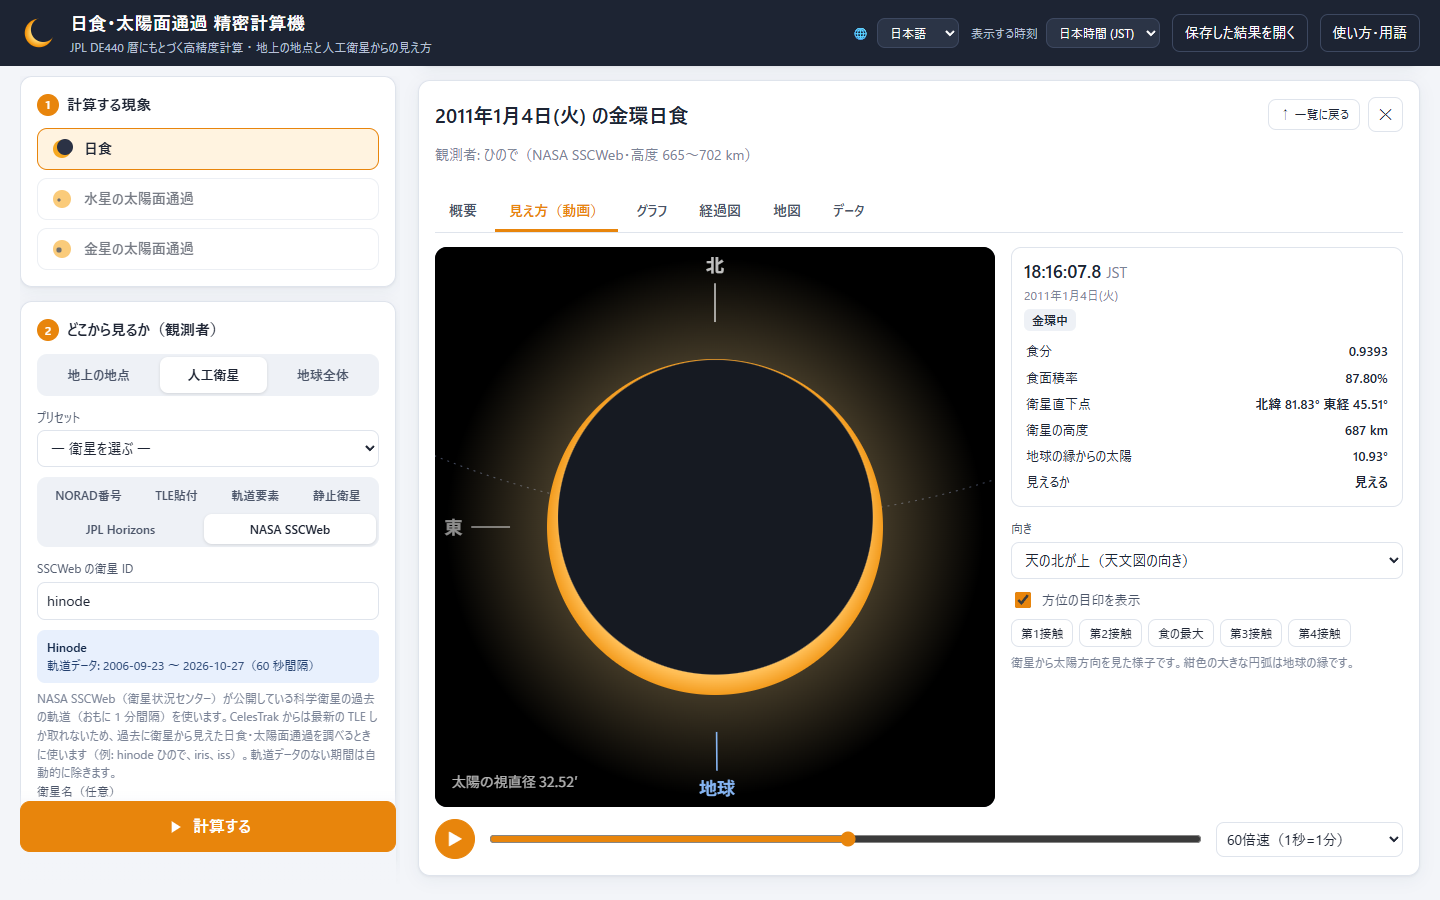
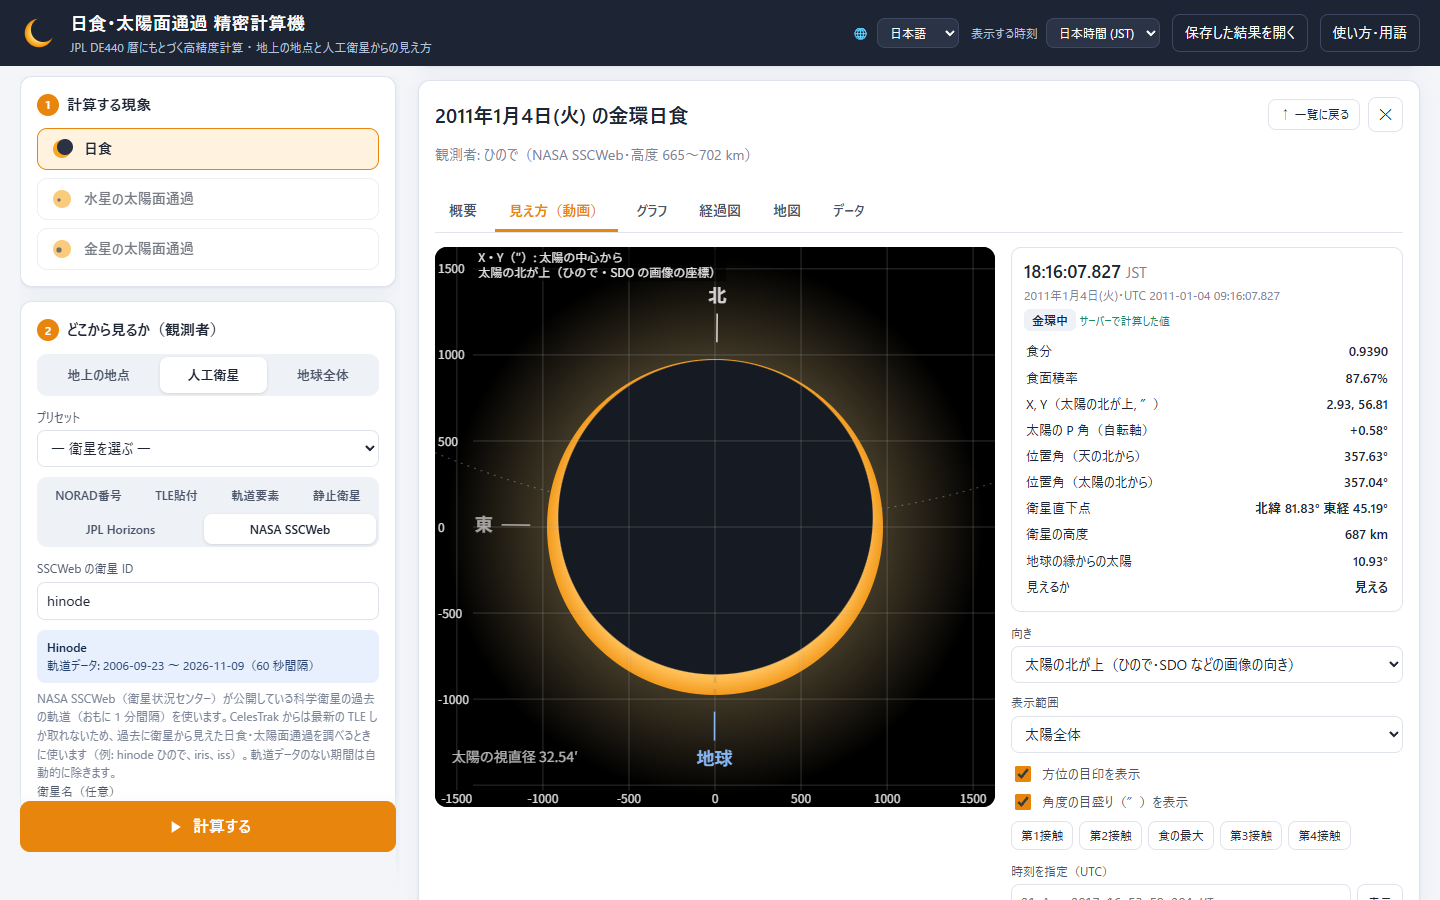
README の画面例を今の画面で撮り直す（日本語版・英語版の 5 枚ずつ。「ひので」の金環日食は太陽の北が上・角度秒の目盛りで表示）。既定の太陽半径の変更に合わせてルクソールの皆既の継続時間の説明を 6 分 18.9 秒に直し、見え方で角度の目盛りを表示するときは方位の目印（北・東・地球）を太陽の近くに描いて目盛りの数値と重ならないようにする

diff --git a/static/app.js b/static/app.js
@@ -2150,7 +2150,9 @@ function drawDisk() {
   if ($('#showGrid').checked) {
     const fs = Math.round(W / (field ? 42 : 32));
     g.font = `bold ${fs}px sans-serif`; g.textAlign = 'center'; g.textBaseline = 'middle';
-    const [ox, oy, r1, r2] = field ? [W - fs * 6.6, fs * 5.8, fs * 0.3, fs * 2] : [cx, cy, rs * 1.22, rs * 1.45];
+    // closer to the Sun when the angle ticks take the edges of the view
+    const [ox, oy, r1, r2] = field ? [W - fs * 6.6, fs * 5.8, fs * 0.3, fs * 2]
+      : axes ? [cx, cy, rs * 1.1, rs * 1.27] : [cx, cy, rs * 1.22, rs * 1.45];
     if (field) {
       g.fillStyle = 'rgba(0,0,0,.5)';
       g.beginPath(); g.arc(ox, oy, fs * 5.1, 0, 2 * Math.PI); g.fill();

diff --git a/README.ja.md b/README.ja.md
@@ -10,7 +10,7 @@
 | | |
 |---|---|
 | ![ルクソールから見た2027年8月2日の皆既日食](docs/images/luxor_view.png) | ![「ひので」が軌道上で見た2011年1月4日の金環日食](docs/images/hinode_view.png) |
-| **地上から見た様子**：ルクソール（エジプト）での 2027 年 8 月 2 日の皆既日食。皆既は 6 分 22.6 秒、欠け方を動画で再生できます | **人工衛星から見た様子**：太陽観測衛星「ひので」が 2011 年 1 月 4 日に軌道上で見た金環日食 |
+| **地上から見た様子**：ルクソール（エジプト）での 2027 年 8 月 2 日の皆既日食。皆既は 6 分 18.9 秒、欠け方を動画で再生できます | **人工衛星から見た様子**：太陽観測衛星「ひので」が 2011 年 1 月 4 日に軌道上で見た金環日食。太陽の北を上にし、ひので・SDO などの画像と同じ角度秒（″）の目盛りで表示 |
 | ![2026〜2035年に世界で起きる日食・太陽面通過の一覧](docs/images/global_list.png) | ![打ち上げ前の衛星について平均近点角ごとの結果をまとめた画面](docs/images/prelaunch_sweep.png) |
 | **一覧**：2026〜2035 年に世界で起きる日食と太陽面通過（種類・食分・中心食の継続時間・サロス番号） | **打ち上げ前の検討**：高度 680 km の太陽同期軌道から見る 2027 年 8 月 2 日の日食を、衛星の位置（平均近点角）ごとに計算 |
 

diff --git a/README.md b/README.md
@@ -10,7 +10,7 @@ The observer can be **any place on the ground**, **an artificial satellite (TLE 
 | | |
 |---|---|
 | ![The total solar eclipse of 2 August 2027 seen from Luxor](docs/images/en/luxor_view.png) | ![The annular eclipse of 4 January 2011 seen in orbit by Hinode](docs/images/en/hinode_view.png) |
-| **Seen from the ground**: the total solar eclipse of 2 August 2027 at Luxor (Egypt). Totality lasts 6 min 22.6 s, and the progress of the eclipse can be played as an animation | **Seen from a satellite**: the annular eclipse that the solar observatory Hinode saw in orbit on 4 January 2011 |
+| **Seen from the ground**: the total solar eclipse of 2 August 2027 at Luxor (Egypt). Totality lasts 6 min 18.9 s, and the progress of the eclipse can be played as an animation | **Seen from a satellite**: the annular eclipse that the solar observatory Hinode saw in orbit on 4 January 2011, with solar north up and arcsecond ticks as in images of Hinode or SDO |
 | ![List of the solar eclipses and transits in the world from 2026 to 2035](docs/images/en/global_list.png) | ![Results for a satellite before launch, summarised by mean anomaly](docs/images/en/prelaunch_sweep.png) |
 | **List**: the solar eclipses and transits in the world from 2026 to 2035 (type, magnitude, duration of the central eclipse, Saros number) | **Planning before launch**: the eclipse of 2 August 2027 seen from a 680 km sun-synchronous orbit, computed for each position of the satellite (mean anomaly) |
 
